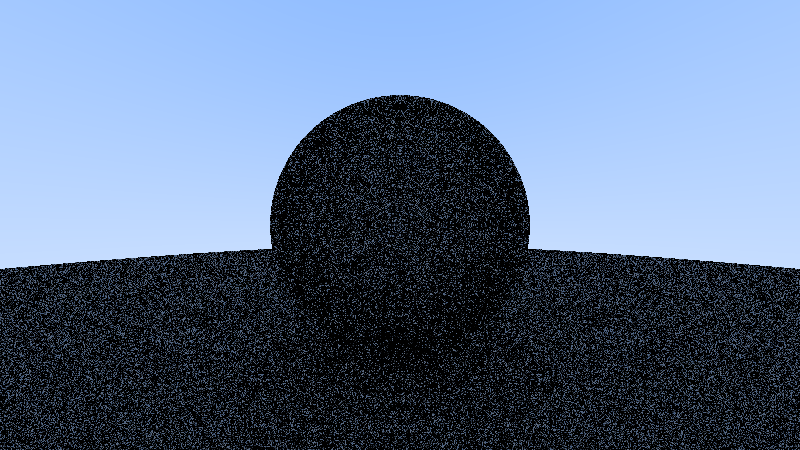
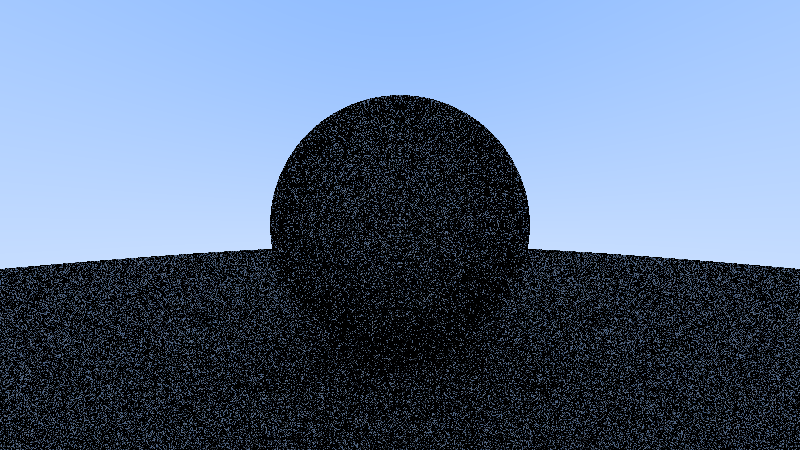
Moved objects outside of camera

diff --git a/src/camera.rs b/src/camera.rs
@@ -1,7 +1,6 @@
 use cgmath::{Vector3, InnerSpace};
 use crate::ray::Ray;
 use crate::hits::Hittable;
-use crate::shapes::Sphere;
 use crate::interval::Interval;
 use image::{ImageBuffer, RgbImage};
 
@@ -41,26 +40,15 @@ fn sky_color(ray: Ray) -> Vector3<f64> {
     return (1.0 - alpha)* Vector3::new(1.0, 1.0, 1.0) + alpha * Vector3::new(0.5, 0.7, 1.0)
 }
 
-fn ray_color(ray: Ray, max_depth: u32) -> Vector3<f64> {
+fn ray_color(ray: Ray, objects: &Vec<Box<dyn Hittable>>, max_depth: u32) -> Vector3<f64> {
     if max_depth <= 0 {
         return Vector3::new(255.0, 255.0, 255.0);
     } 
     
-    let objects: Vec<Box<dyn Hittable>> = vec!(
-        Box::new(Sphere {
-            origin: Vector3::new(0.0, 0.0, -1.0),
-            radius: 0.5
-        }),
-        Box::new(Sphere {
-            origin: Vector3::new(0.0, -100.5, -1.0),
-            radius: 100.0
-        })
-    );
-
     return match objects.hit(ray, &Interval::new(0.0, f64::INFINITY)) {
         Some(record) => {
             let direction = rand_on_hemisphere(record.normal);
-            return 0.5 * ray_color(Ray::new(record.hit, direction), max_depth - 1);
+            return 0.5 * ray_color(Ray::new(record.hit, direction), objects, max_depth - 1);
         },
         None => sky_color(ray)
     }
@@ -107,7 +95,7 @@ impl Camera {
     }
 
 
-    pub fn render(&self) -> RgbImage {
+    pub fn render(&self, objects: &Vec<Box<dyn Hittable>>) -> RgbImage {
         let mut image: RgbImage = ImageBuffer::new(self.width, self.height);
         for i in 0..self.width {
             for j in 0..self.height {
@@ -115,7 +103,7 @@ impl Camera {
                 let ray_direction = pixel - self.position;
                 let ray = Ray::new(self.position, ray_direction.clone());
                 let pixel = image.get_pixel_mut(i, j);
-                let color = ray_color(ray, 50);
+                let color = ray_color(ray, objects, 50);
                 *pixel = color_from_vector(color);
             }
         }

diff --git a/src/main.rs b/src/main.rs
@@ -6,7 +6,8 @@ mod camera;
 
 use camera::Camera;
 use cgmath::Vector3;
-use image::RgbImage;
+use crate::hits::Hittable;
+use crate::shapes::Sphere;
 
 fn main() {
     let camera = Camera::new(
@@ -16,5 +17,16 @@ fn main() {
         1.0
     );
 
-    camera.render().save("test.png").unwrap();
+    let objects: Vec<Box<dyn Hittable>> = vec!(
+        Box::new(Sphere {
+            origin: Vector3::new(0.0, 0.0, -1.0),
+            radius: 0.5
+        }),
+        Box::new(Sphere {
+            origin: Vector3::new(0.0, -100.5, -1.0),
+            radius: 100.0
+        })
+    );
+
+    camera.render(&objects).save("test.png").unwrap();
 }
